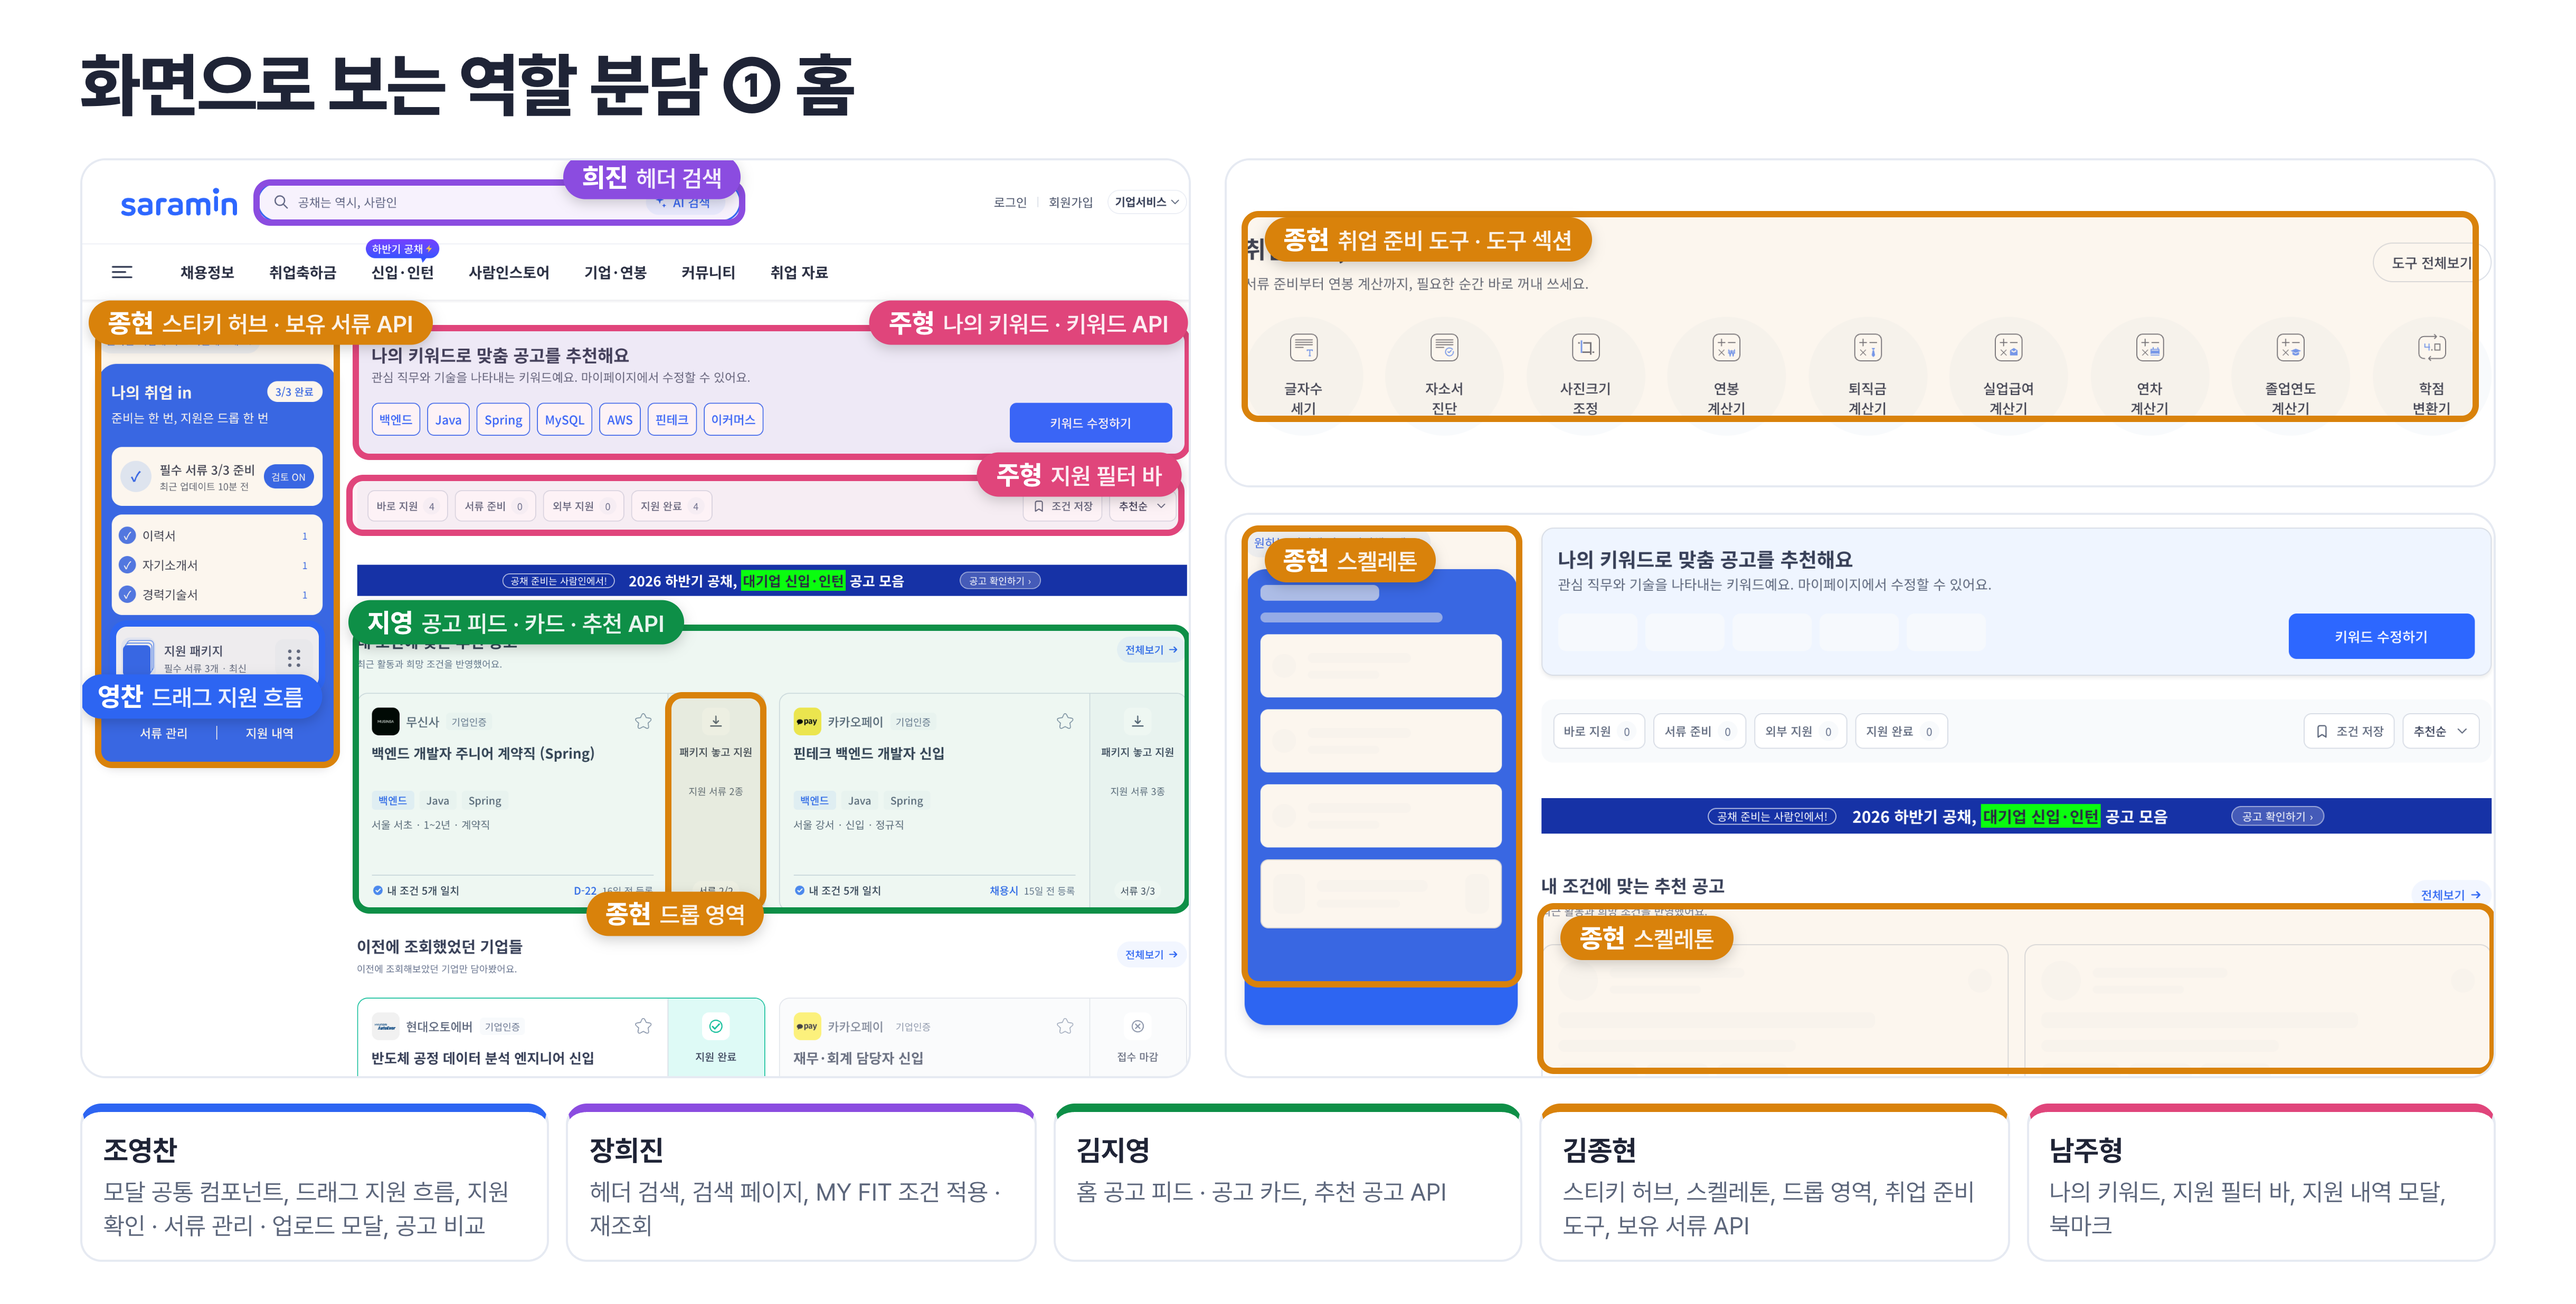
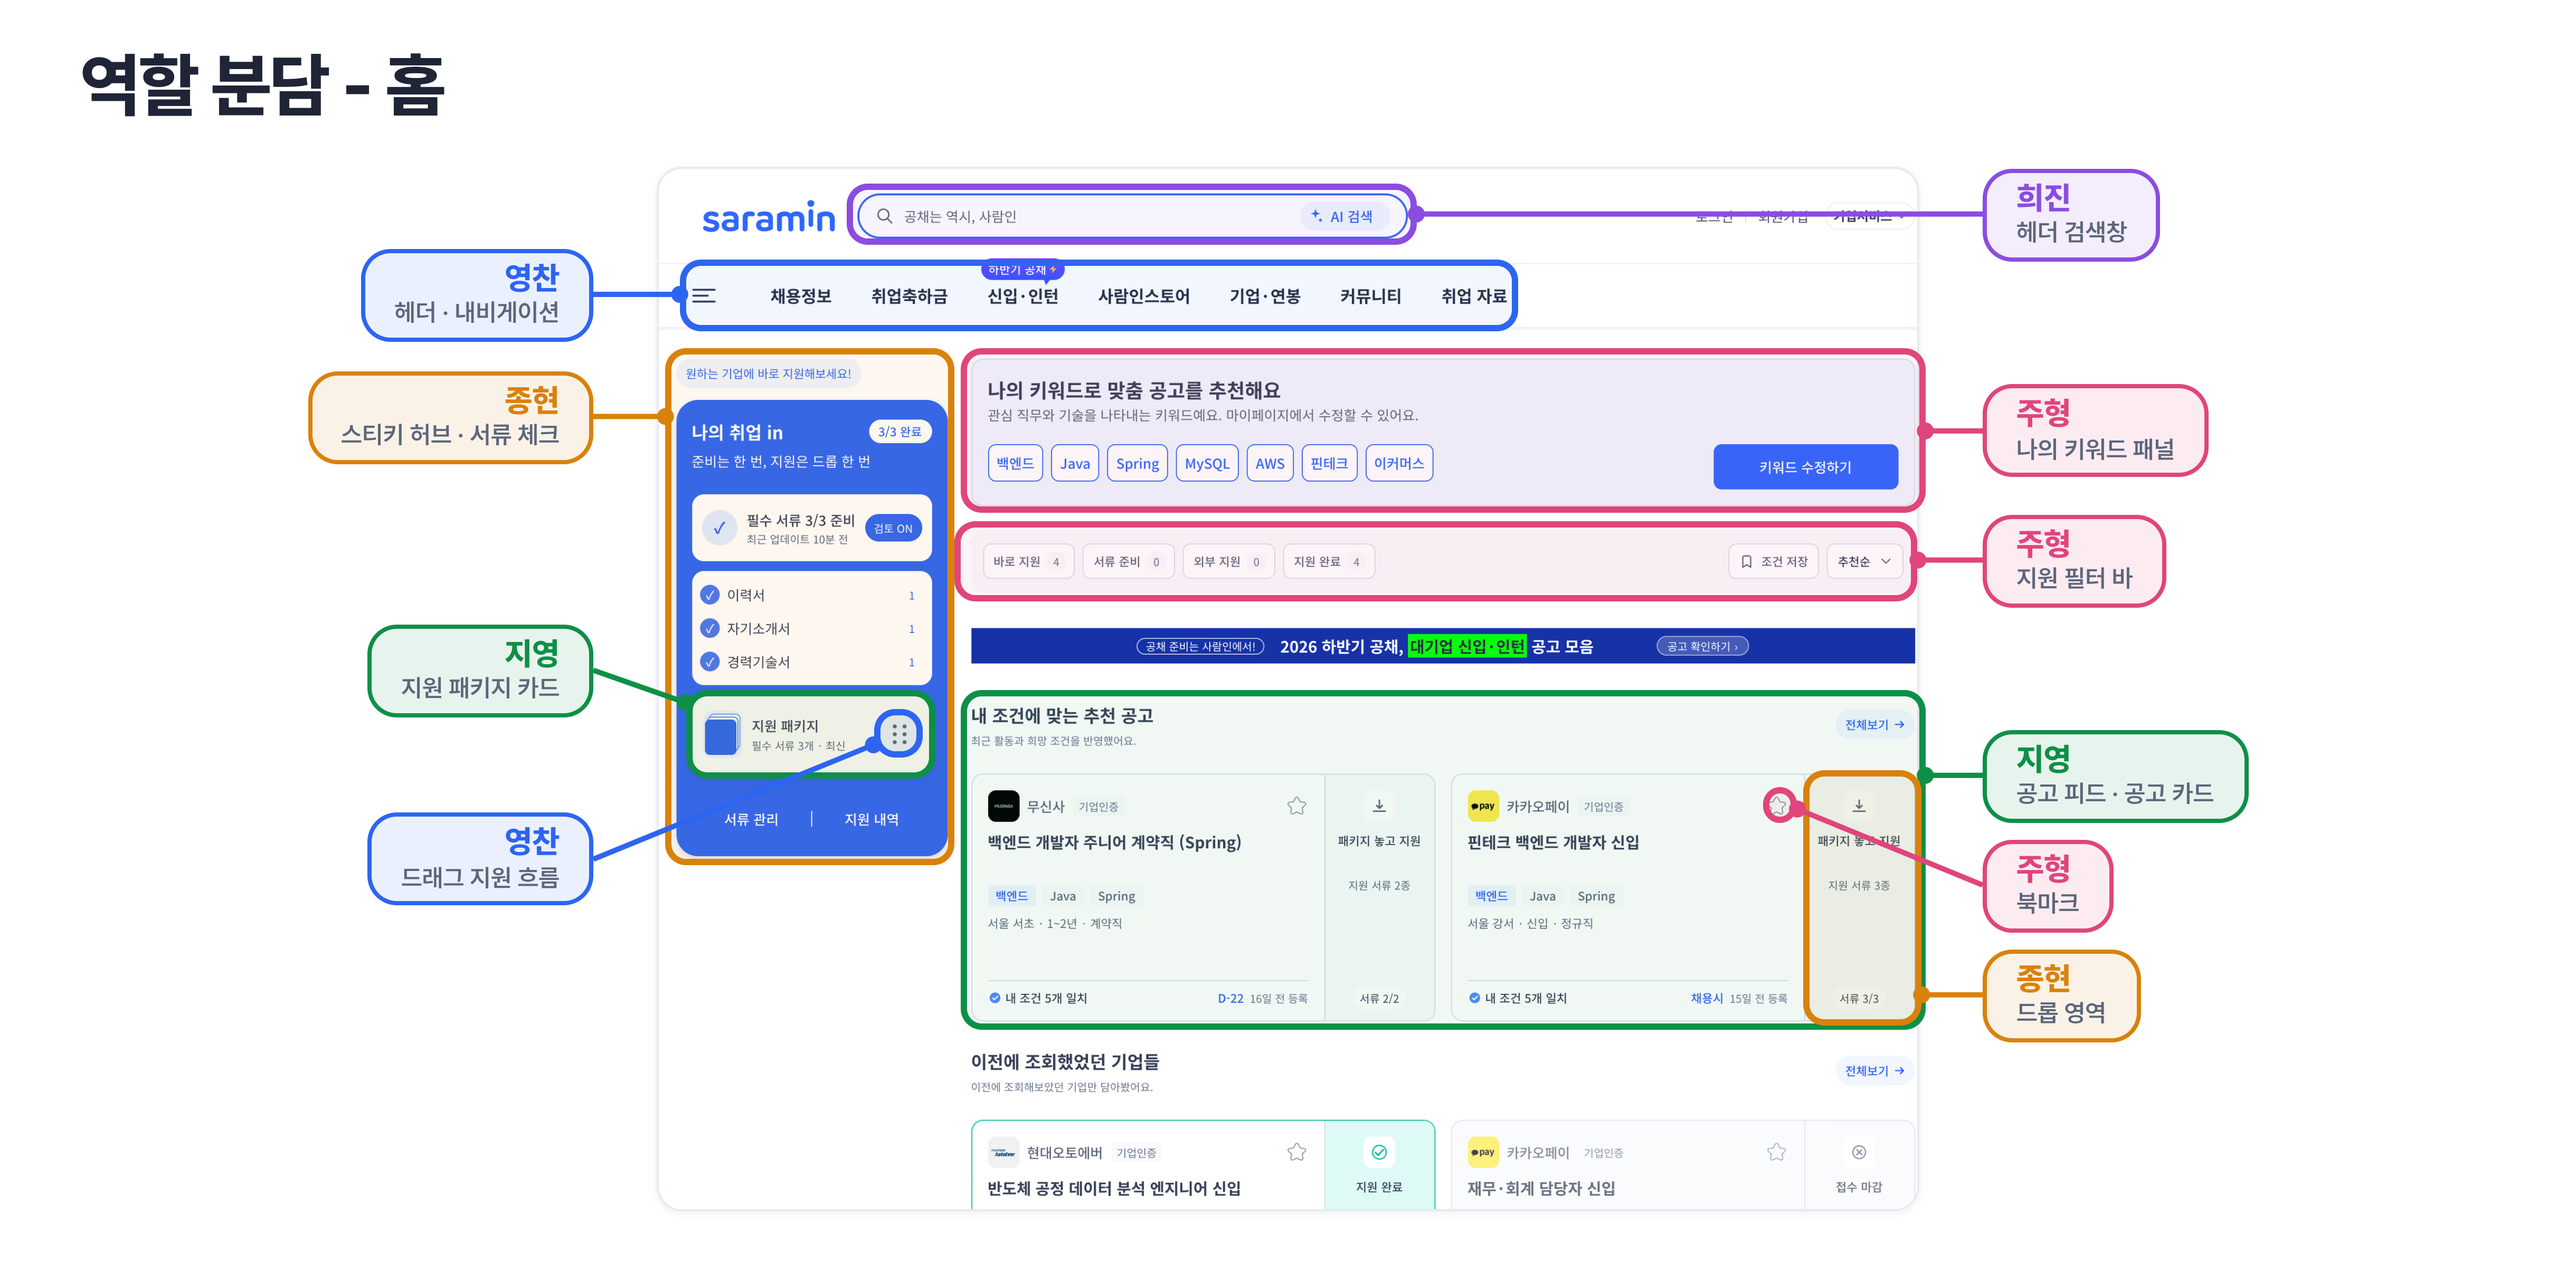
docs: README 역할 분담 이미지를 API · 홈 · 도구 · 검색 · 모달 5장으로 교체

Changed region(s): [[0.0311, 0.1235, 0.9656, 0.9574], [0.0311, 0.0309, 0.3426, 0.0927], [0.8721, 0.4633, 0.9656, 0.525]]

diff --git a/README.md b/README.md
@@ -79,9 +79,15 @@
 
 ## 🧑💻 역할 분담
 
-<img src="docs/images/roles-home.png" alt="화면으로 보는 역할 분담 ① 홈" width="100%" />
+<img src="docs/images/roles-api.png" alt="역할 분담 - API" width="100%" />
 
-<img src="docs/images/roles-search.png" alt="화면으로 보는 역할 분담 ② 검색 · 모달" width="100%" />
+<img src="docs/images/roles-home.png" alt="역할 분담 - 홈" width="100%" />
+
+<img src="docs/images/roles-tools-loading.png" alt="역할 분담 - 홈 도구 · 로딩" width="100%" />
+
+<img src="docs/images/roles-search.png" alt="역할 분담 - 검색" width="100%" />
+
+<img src="docs/images/roles-modal.png" alt="역할 분담 - 모달" width="100%" />
 
 | 이름 | 초기 세팅 | 공통 컴포넌트 | 페이지 · API |
 | :---: | --- | --- | --- |
